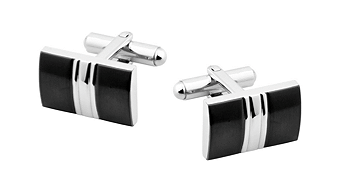
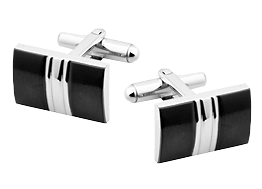
LP Odzieżowe podmiana zdjęć w LP Swiątecznym

Changed region(s): [[0.458, 0.3439, 0.9771, 0.873], [0.0305, 0.1323, 0.5496, 0.6878], [0.6718, 0.3439, 0.7328, 0.3704]]

diff --git a/lp-swiateczne/index.html b/lp-swiateczne/index.html
@@ -55,7 +55,7 @@
                 </div>
                 <div class="row product-lines">
                           <div class="col-xs-6 col-sm-4 col-lg-3 product-3 proudct-box">
-                               <a href="#naszyjnik"><img src="images/products/gift6.jpg" alt="Prezent 2" /></a>
+                               <a href="#naszyjnik"><img src="images/products/gift6.png" alt="Prezent 2" /></a>
                         </div>
                         <div class="col-xs-6 col-sm-4 col-lg-3 product-2 proudct-box">
                             <a href="#zestaw-choco-folk" class="zestaw-choco-folk"><img src="images/products/gift4.png" alt="Prezent" /></a>
